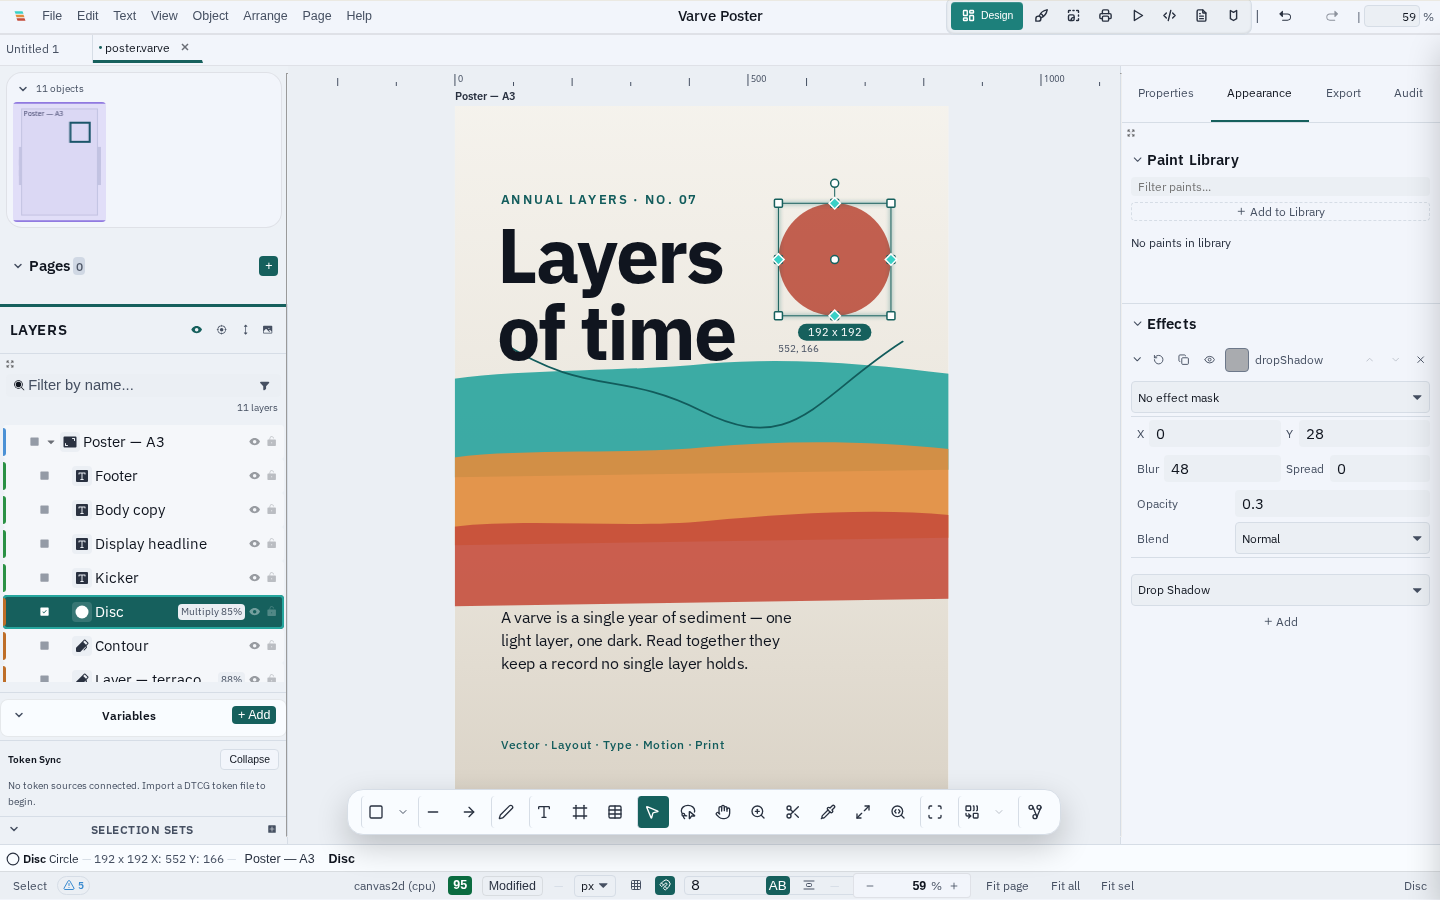
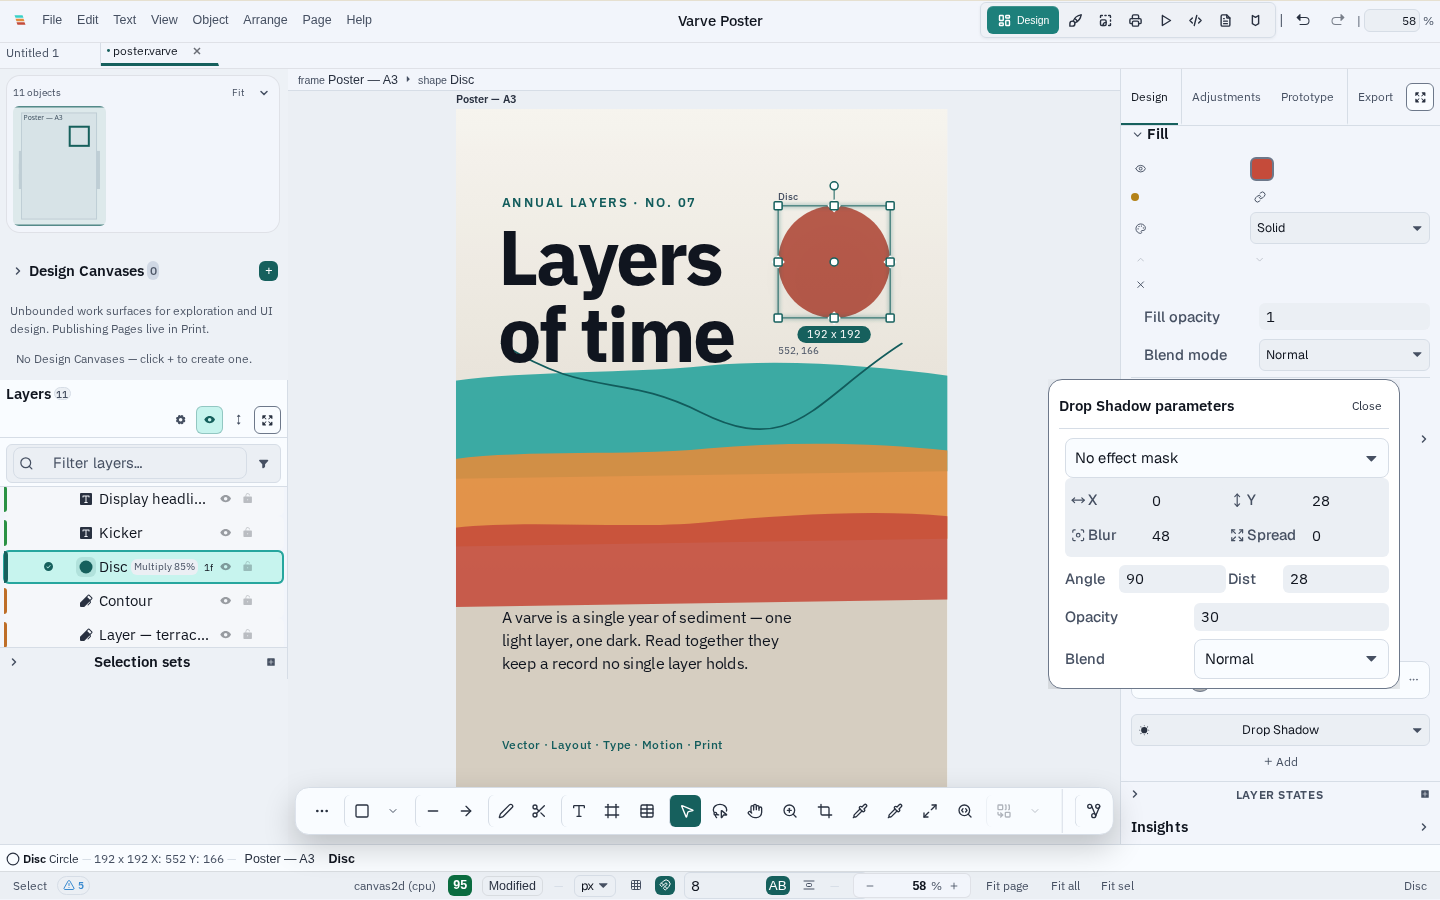
document inspector ownership and refresh effects capture

diff --git a/docs/architecture/inspector-feature-ownership.md b/docs/architecture/inspector-feature-ownership.md
@@ -7,12 +7,12 @@ container for new editor features. Every section registered in
 by `featureOwnership.test.ts`; adding a section without classifying it fails the
 test suite.
 
-The single-selection surface also includes a Quick properties access strip for
-X, Y, W, H, Opacity, and Fill. It is a presentation layer over the existing
-editor setters, bindings, transactions, and canonical sections—not a second
-property model. It is intentionally absent for empty and multi-selection
-contexts, where mixed-value semantics and batch editing remain in the full
-sections.
+Single selection uses the canonical sections directly. Position & Size owns
+X, Y, W, H, rotation, and sizing controls; Appearance owns opacity and blend
+mode; Fills owns paint rows and the primary color editor. There is no second
+Quick properties strip, so each commonly edited value has one visible owner
+and one undo/binding path. Empty and mixed selections retain their existing
+selection-aware section semantics.
 
 ## Canonical Design composition
 
@@ -21,13 +21,16 @@ alignment, X/Y, rotation/flip, the single W/H pair, per-axis mode, ratio lock,
 and min/max bounds. Stack / Grid owns container flow, wrap, alignment,
 distribution, signed flex gaps, padding, and grid track/placement controls.
 Layout Child is mounted only for a selected flow child and is never mounted a
-second time under the frame section. The quick-properties strip is a compact
-view of Position & Size and never writes a separate model.
+second time under the frame section. Stack / Grid is the sole owner of frame
+flow and track controls; it is visually distinct from Position & Size while
+using the same compact field grammar.
 
 Fills, Strokes, Effects, Typography, Images, Components, Tables, Selection
 Colors, and Export each have one persistent owner. Advanced paint, effect,
 image, table, and typography editors open as focused surfaces and return focus
-to the owning row when dismissed. Mixed selections patch only the edited field;
+to the owning row when dismissed. Layer effect parameters open in an anchored
+focused editor beside the rail; reset, duplicate, reorder, and remove live in
+the effect row's overflow menu. Mixed selections patch only the edited field;
 unsupported values remain visibly mixed or unavailable.
 
 The layout sizing modes are **Fixed**, **Hug**, **Fill**, and **Relative**.

diff --git a/docs/audits/inspector-stack-layout-audit-2026-09-09.md b/docs/audits/inspector-stack-layout-audit-2026-09-09.md
@@ -66,3 +66,22 @@ component slot clearing, and explicit mixed-selection export scope. The visual
 matrix also needs light, dark, high-contrast, narrow/wide rails, fractional
 zoom, camera rotation, and DPR 1/2 captures. Windows/macOS and 4GB hardware
 results are verification gaps, not inferred support.
+
+## Inspector visual refinement — 2026-09-09
+
+The follow-up visual pass keeps the accepted ownership contract and removes the
+duplicate single-selection Quick properties strip. Position & Size is the sole
+owner of geometry; Appearance displays opacity as a percentage while storing
+the existing 0–1 value; Stack / Grid is the visible frame-flow owner.
+
+Paint and effect sections are composed through the section registry instead of
+being appended as a second appearance surface. Effect rows now reserve stable
+slots for visibility, preview, identity, and an action menu. Detailed effect
+parameters open in a focused editor anchored to the row, with owner identity
+including the document, selection, effect index, and type.
+
+The unchanged baseline could not be recaptured before implementation because a
+cold Chromium startup stopped at the existing generative-edit export boundary;
+the current dirty engine entry point contains the required export. Updated
+captures and the selected-state visual matrix remain required evidence before
+approving new website baselines.

diff --git a/docs/adr/0234-inspector-stack-layout-contract.md b/docs/adr/0234-inspector-stack-layout-contract.md
@@ -18,6 +18,10 @@ contains container flow, signed flex spacing, padding, distribution, and grid
 tracks. Fills, strokes, effects, typography, images, components, tables, and
 export each have one owner and one stable row identity.
 
+The inspector has no duplicate Quick properties strip. Appearance owns opacity
+and blend mode, Fills owns paint rows, and effect parameters open in a focused
+anchored editor while secondary effect actions live in the row menu.
+
 The scene model retains authored sizing mode and percentage fields. Fixed
 constraints remain serialised but inactive; Hug measures occupied content;
 Fill receives residual space; Relative resolves a literal percentage of its
@@ -47,6 +51,6 @@ and specialised editors own complex operations.
 ## Validation
 
 The contract is covered by layout, scene migration, paint-order, and focused
-inspector tests. Chromium quick-properties/containment tests pass on the
-refreshed master checkout; the full browser and native matrix remains a final
-gate because this change crosses schema, layout, rendering, and codegen.
+inspector tests. The browser baseline must be recaptured after the current
+dirty engine export prerequisite is loaded; the full browser and native matrix
+remains a final gate because this change crosses layout, rendering, and codegen.
